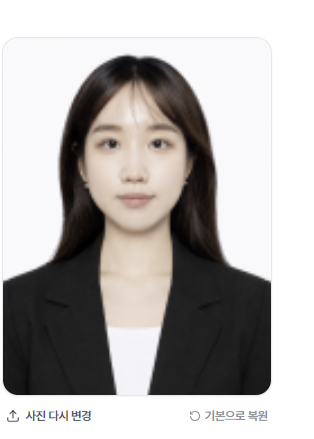
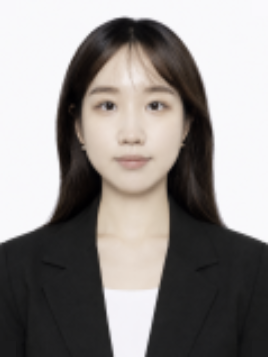
refactor: optimize profile image display
- Update image import and rendering in ProfileAboutSection
- Add overflow-hidden and adjust object-fit for consistent layout
- Clean up unused assets and formatting

diff --git a/src/data/portfolioData.ts b/src/data/portfolioData.ts
@@ -1,6 +1,13 @@
 import { ProjectItem, MindsetPillar, PeopleExperienceItem, CareerStep } from '../types/portfolio';
 import dalbaInternImg from '../assets/images/dalba.avif';
 import fripLogoImg from '../assets/images/frip_logo.jpeg';
+import profilePortraitImg from '../assets/images/profile.png';
+import harangKakaoFundingImg from '../assets/images/harang_kakao_funding_1791978367635.jpg';
+import strategyAnalysisDeckImg from '../assets/images/strategy_analysis_deck_1791976208090.jpg';
+import dalbaRetailShowcaseImg from '../assets/images/dalba_retail_showcase_1791976207637.jpg';
+import fripActivityRealImg from '../assets/images/frip_activity_real_1791978312146.jpg';
+import chestertonsHotelRealImg from '../assets/images/chestertons_hotel_real_1791978312478.jpg';
+import harangFestivalBoothImg from '../assets/images/harang_festival_booth_1791976208101.jpg';
 
 export const PERSONAL_INFO = {
   name: '박성현',
@@ -12,7 +19,7 @@ export const PERSONAL_INFO = {
   subIntro: '',
   email: 'shp011212@gmail.com',
   phone: '010-8746-1649',
-  portraitImage: '/profile.png',
+  portraitImage: profilePortraitImg,
   fieldImage: dalbaInternImg,
   education: {
     school: '한양대학교 경영학부 / 중국경제통상학과 복수전공',
@@ -118,7 +125,7 @@ export const CAREER_JOURNEY_STEPS: CareerStep[] = [
     thoughtSnippet: '청년들의 미충족 니즈를 파악해 펀딩 KPI를 모금액에서 참여자 수로 재정의하고, 부스 대기 이탈을 타 부스 관찰 데이터로 팀원을 설득해 단순화함',
     learningSnippet: '팀 내 의견 대립 시 주관적 직관이 아닌 현장의 객관적 관찰 데이터로 소통해야 하며, 참여 허들을 낮추는 작은 변화가 극적 성과를 만든다는 점을 배웠습니다.',
     metrics: '타 펀딩 대비 참여자 10배 (200% 달성) · 부스 방문객 150% 달성',
-    image: '/src/assets/images/harang_kakao_funding_1791978367635.jpg',
+    image: harangKakaoFundingImg,
     primaryProjectId: 'harang-crowdfunding'
   },
   {
@@ -132,7 +139,7 @@ export const CAREER_JOURNEY_STEPS: CareerStep[] = [
     thoughtSnippet: '책상 앞 가설에 머무르지 않고 실제 100명 소비자 설문과 일선 편의점 점주님들을 직접 찾아가 온·오프라인의 진짜 병목을 규명함',
     learningSnippet: '온라인 플랫폼 서비스의 성패는 결국 오프라인 현장의 운영자(점주)가 얼마나 쉽게 일할 수 있는가에 달려 있다는 현장 중심 사고를 배웠습니다.',
     metrics: 'BGF리테일 산학협력 우수상 · 설화수 우수 보고서 선정',
-    image: '/src/assets/images/strategy_analysis_deck_1791976208090.jpg',
+    image: strategyAnalysisDeckImg,
     primaryProjectId: 'bgf-retail-pocketcu'
   }
 ];
@@ -186,7 +193,7 @@ export const PROJECTS: ProjectItem[] = [
     period: '2026.01 ~ 2026.04 (3개월)',
     title: '백화점 채널 영업 지원 및 발주·프로모션 효율화',
     badge: '업무 프로세스 혁신 · AI 도입',
-    image: '/src/assets/images/dalba_retail_showcase_1791976207637.jpg',
+    image: dalbaRetailShowcaseImg,
     thoughtProcess: '백화점 행사와 팝업스토어에서 복잡한 쿠폰 방식은 매장 직원이 사용하기 번거로웠고, 본사와 매장 간 데이터 공유가 늦어져 발주 차질이 반복되었습니다. 저는 "본사가 아무리 좋은 프로모션을 기획해도, 매일 고객을 마주하는 현장 직원이 쓰기 편하지 않으면 실패한다"고 생각했습니다. 매장 직원들의 고충을 덜어주는 발주 템플릿과 생성형 AI 기반의 빠른 소재 기획 방식을 도입했습니다.',
     problem: '백화점 행사 시 현장 활용도가 떨어지는 복잡한 쿠폰 운영 방식과 매장-본사 간 소통 지연으로 인해 프로모션 효과가 제한됨.',
     insight: '매장 입지와 고객층에 따라 행동 패턴이 다르므로, 현장 직원 맞춤형의 간소화된 프로모션 스킴과 실시간 SKU 발주 체계가 필수적임을 파악.',
@@ -226,7 +233,7 @@ export const PROJECTS: ProjectItem[] = [
     period: '2025.03 ~ 2025.06 (4개월)',
     title: 'B2B 제휴 상품 기획 및 150개사 맞춤 콜드메일 영업',
     badge: '아웃바운드 영업 · ESG 마케팅',
-    image: '/src/assets/images/frip_activity_real_1791978312146.jpg',
+    image: fripActivityRealImg,
     thoughtProcess: '기존의 B2B 영업은 플랫폼 내 인기 액티비티 목록을 회사들에게 단순 복사해 보내는 식이어서 회신율이 1~2%대에 머물렀습니다. 저는 "기업 인사·복지 담당자가 우리 제휴안을 열어보아야 할 명확한 당위성(ESG 활동, 팀빌딩)"을 만들어주어야 한다고 생각했습니다. 다가오는 6월 환경의 날 시즌에 주목해, 기업이 손쉽게 도입할 수 있는 친환경 아웃도어 제휴 테마를 제안했습니다.',
     problem: '기존 제안 방식이 플랫폼 내 인기 상품을 단순 나열해 전달하는 방식에 그쳐 기업 담당자의 미팅 전환율이 매우 저조함.',
     insight: '상품의 핵심 가치는 단순 온라인 결제가 아닌 "오프라인 현장 경험"에 있음을 주목. 기업들의 친환경·ESG 사내 활동 수요와 연계할 기회 발견.',
@@ -265,7 +272,7 @@ export const PROJECTS: ProjectItem[] = [
     period: '2025.03 ~ 2025.06 (4개월)',
     title: '체스터톤스 호텔 객실 제휴 운영 & 파트너십 피보팅',
     badge: '파트너십 피보팅 · 제휴 운영',
-    image: '/src/assets/images/chestertons_hotel_real_1791978312478.jpg',
+    image: chestertonsHotelRealImg,
     thoughtProcess: '미팅 과정에서 체스터톤스 측의 예산과 운영 인력이 부족해, 당초 목표했던 단순 광고 수수료 계약이 무산될 위기에 처했습니다. 여기서 억지로 수수료를 고집하면 관계가 끝납니다. 저는 "지금은 단기 수수료를 받기보다, 유저 참여도를 극대화해 파트너사에게 우리 플랫폼의 잠재력을 확실히 증명하고 장기 파트너십으로 이어가는 것이 훨씬 이득"이라고 판단해 목표를 피보팅했습니다.',
     problem: '미팅 진행 중 파트너사의 내부 예산 및 인력이 부족함을 확인하여, 당초 기획했던 광고 수수료 확보가 어려워짐.',
     insight: '협업의 단기 목표를 "단순 광고비 수취"에서 "참여율 극대화를 통한 신뢰 확보 및 파트너십 연장"으로 기민하게 전환할 필요성 포착.',
@@ -343,7 +350,7 @@ export const PROJECTS: ProjectItem[] = [
     period: '2025.06 ~ 2026.06 (1년)',
     title: '사회혁신축제 부스 운영',
     badge: '현장 관찰 데이터 · 동선 최적화',
-    image: '/src/assets/images/harang_festival_booth_1791976208101.jpg',
+    image: harangFestivalBoothImg,
     thoughtProcess: '축제 당일 오전 방문객 수가 목표의 75% 수준에 그쳤습니다. 좁은 부스에서 2가지 게임을 동시에 진행하다 보니 대기 줄이 꼬이고 손님들이 그냥 지나쳤습니다. 팀원 간에 "홍보를 더 하자", "게임을 바꾸자"며 설전이 벌어졌을 때, 제 생각만 강요하기보다 직접 축제장을 돌며 다른 부스를 관찰했습니다. 줄이 긴 부스는 모두 30초 내에 끝나는 직관적인 상호작용형 단일 게임을 운영하고 있었습니다. 이 객관적인 관찰 데이터를 팀원들에게 보여주며 즉시 부스를 개편했습니다.',
     problem: '축제 오전 방문객이 목표의 75%에 머묾. 협소한 공간에서 2가지 복잡한 게임을 운영해 동선 혼란과 긴 대기 시간으로 이탈 발생.',
     insight: '30분간 현장을 관찰한 결과 단일 콘텐츠로의 단순화가 시급함을 발견. 팀 의견 대립 시 직관보다 "타 부스의 실제 참여 데이터"를 근거로 설득해야 함을 파악.',

diff --git a/src/components/ProfileAboutSection.tsx b/src/components/ProfileAboutSection.tsx
@@ -53,11 +53,10 @@ export const ProfileAboutSection: React.FC<ProfileAboutSectionProps> = ({
             
             {/* 프로필 사진 박스 (영구 고정) */}
             <div className="w-full max-w-[270px] mx-auto lg:mx-0 rounded-2xl overflow-hidden bg-[#f4f4f6] border border-[#e6e6ec] shadow-xs">
-              <div className="aspect-[3/4] w-full relative">
+              <div className="aspect-[3/4] w-full relative overflow-hidden">
                 <img
                   src={PERSONAL_INFO.portraitImage}
                   alt="박성현 프로필"
-                  referrerPolicy="no-referrer"
                   onError={(e) => {
                     const target = e.currentTarget;
                     if (!target.dataset.triedFallback) {
@@ -65,7 +64,7 @@ export const ProfileAboutSection: React.FC<ProfileAboutSectionProps> = ({
                       target.src = '/profile.png';
                     }
                   }}
-                  className="w-full h-full object-cover object-top filter brightness-[1.01]"
+                  className="block w-full h-full object-cover object-center"
                 />
               </div>
             </div>
